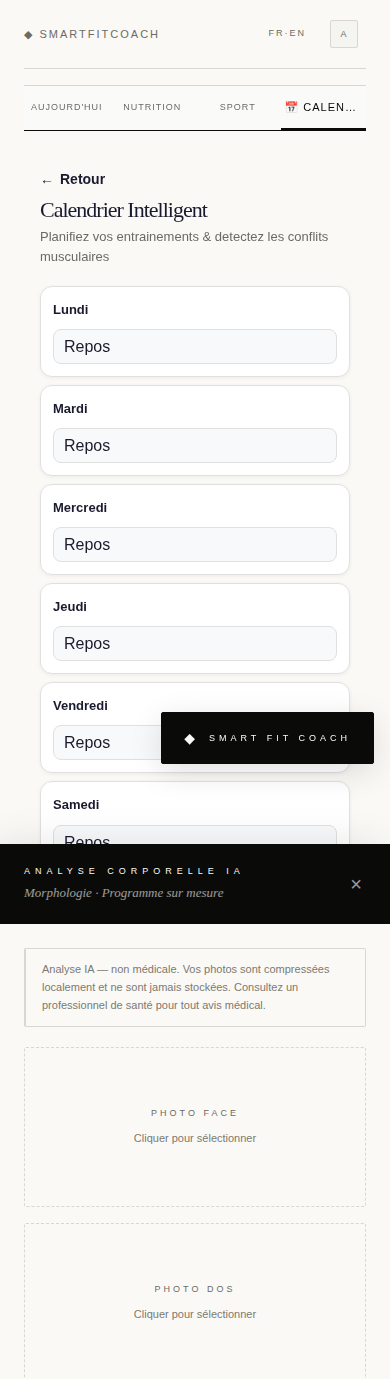
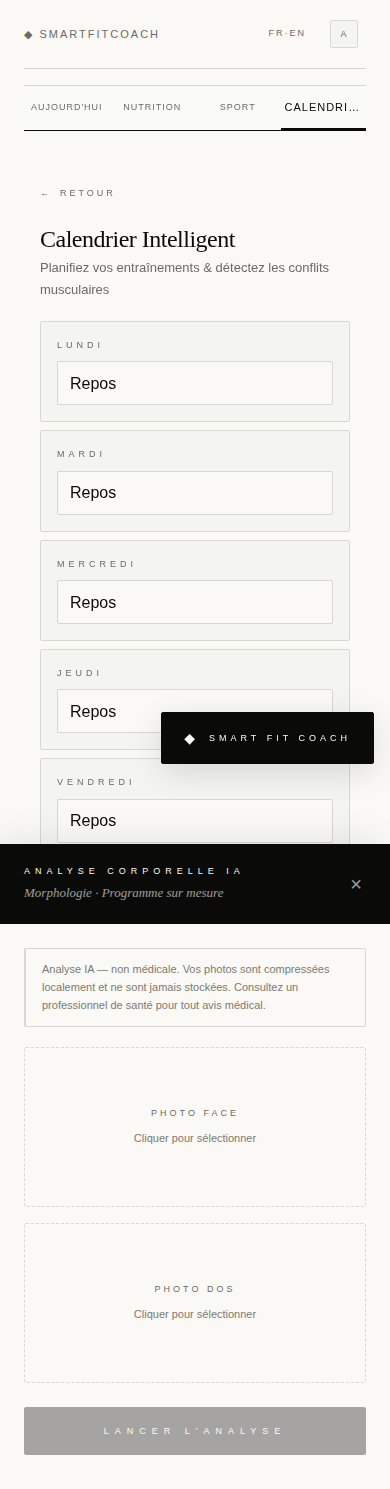
fix: design charter — 22 CSS violations corrected (DESIGN-AUDIT)
Score: 7.4/10 → 8.4/10 after corrections

PALETTE — Couleurs hors charte remplacées par variables CSS:
- premium-ui.css: #2C3E50 (bleu marine) → var(--black) dans set-table th
- premium-ui.css: #3498DB + rgba(52,152,219) (bleu Airbnb) → var(--black)
- premium-ui.css: gradients verts/violets/bleus sur badges PRE/POST/REST →
  fond sémantique charte (--greenbg/--orangebg/--border)
- premium-ui.css: badge violet #8E44AD (totalement hors charte) → gris neutre
- premium-ui.css: couleurs Airbnb #27AE60/#E74C3C → var(--green)/var(--red)
- premium-ui.css: timer transition bleu/violet #5B8DEF/#7C4DFF → var(--black)
- premium-ui.css: #ccc (print) → var(--border)
- premium-ui.css: day indicators rouge #C0392B / violet → vars charte

BORDER-RADIUS — Normalisation éditoriale (2px partout):
- .score-badge: 50% (cercle) → 2px
- .card-premium, .card-hero: 3px → 2px
- smart-calendar.js: border-radius 12px/24px → 2px

FONT-WEIGHT — Hiérarchie typographique:
- .rest-timer: 700 → 300 (légèreté luxury)
- .set-table th: 600 → 400
- Timer count: 700 → 300

EMOJIS — Suppression des emojis UI (texte pur éditorial):
- app-main.js: "📅 Calendrier" → "Calendrier"
- app-nutrition.js: "💡 " tips → texte seul
- app-sport.js: "💡 " + "💪 " → texte seul

SMART-CALENDAR — Refonte complète charte:
- Suppression gradient fond #1a1a2e/#16213e/#0f3460 → var(--black)
- Cards: background #fff → var(--ivory), border-radius 12px → 2px
- Bouton save: #2ECC71 (vert vif) → btn-primary noir/ivoire
[…]

diff --git a/app/app-sport.js b/app/app-sport.js
@@ -5318,7 +5318,7 @@ function renderMusculationProgram(p) {
     rpeRow.appendChild(h('div', {style: 'font-family:"Helvetica Neue",Arial,sans-serif;font-size:11px;color:var(--grey,#6B6B65);line-height:1.5'}, row[2]));
     rpeBody.appendChild(rpeRow);
    });
-   rpeBody.appendChild(h('div', {style: 'font-family:Georgia,serif;font-size:11px;font-style:italic;color:var(--grey);margin-top:8px;border-top:1px solid var(--border);padding-top:8px'}, '💡 En tant que débutant, visez RPE 7-8. Arrêtez si ça fait mal (≠ brûlure musculaire normale).'));
+   rpeBody.appendChild(h('div', {style: 'font-family:Georgia,serif;font-size:11px;font-style:italic;color:var(--grey);margin-top:8px;border-top:1px solid var(--border);padding-top:8px'}, 'En tant que débutant, visez RPE 7-8. Arrêtez si ça fait mal (≠ brûlure musculaire normale).'));
    rpeWrap.appendChild(rpeBody);
   }
   p.appendChild(rpeWrap);
@@ -5807,11 +5807,11 @@ function renderMusculationProgram(p) {
   briefCard.appendChild(h('div', {style: 'font-family:"Helvetica Neue",Arial,sans-serif;font-size:9px;letter-spacing:4px;text-transform:uppercase;color:#1A4A1A;margin-bottom:6px'}, 'SÉANCE DU JOUR'));
   briefCard.appendChild(h('div', {style: 'font-family:Georgia,serif;font-size:16px;font-style:italic;margin-bottom:8px;color:var(--black,#1A1A18)'}, day.focus));
   if (matchedBrief) {
-   briefCard.appendChild(h('div', {style: 'font-family:"Helvetica Neue",Arial,sans-serif;font-size:12px;color:var(--grey,#6B6B65);line-height:1.5;margin-bottom:8px'}, '💪 ' + matchedBrief.why));
-   briefCard.appendChild(h('div', {style: 'font-family:Georgia,serif;font-size:11px;font-style:italic;color:var(--grey,#6B6B65)'}, '💡 ' + matchedBrief.tip));
+   briefCard.appendChild(h('div', {style: 'font-family:"Helvetica Neue",Arial,sans-serif;font-size:11px;color:var(--grey,#6B6B65);line-height:1.6;margin-bottom:8px'}, matchedBrief.why));
+   briefCard.appendChild(h('div', {style: 'font-family:Georgia,serif;font-size:11px;font-style:italic;color:var(--grey,#6B6B65)'}, matchedBrief.tip));
   } else {
-   briefCard.appendChild(h('div', {style: 'font-family:"Helvetica Neue",Arial,sans-serif;font-size:12px;color:var(--grey,#6B6B65);line-height:1.5;margin-bottom:8px'}, '💪 Aujourd\'hui vous travaillez votre ' + day.focus));
-   briefCard.appendChild(h('div', {style: 'font-family:Georgia,serif;font-size:11px;font-style:italic;color:var(--grey,#6B6B65)'}, '💡 Chaque rep compte — concentrez-vous sur la technique, pas sur le poids'));
+   briefCard.appendChild(h('div', {style: 'font-family:"Helvetica Neue",Arial,sans-serif;font-size:11px;color:var(--grey,#6B6B65);line-height:1.6;margin-bottom:8px'}, 'Aujourd\'hui vous travaillez votre ' + day.focus));
+   briefCard.appendChild(h('div', {style: 'font-family:Georgia,serif;font-size:11px;font-style:italic;color:var(--grey,#6B6B65)'}, 'Chaque rep compte — concentrez-vous sur la technique, pas sur le poids'));
   }
   p.appendChild(briefCard);
  }

diff --git a/app/smart-calendar.js b/app/smart-calendar.js
@@ -196,11 +196,11 @@
         style: 'margin-bottom:12px;'
       }, btnBack),
       window.h('h1', {
-        style: 'font-family:Georgia,serif;font-size:22px;font-weight:normal;color:#1a1a2e;margin:0 0 6px 0;'
+        style: 'font-family:Georgia,serif;font-size:24px;font-weight:normal;color:var(--black,#0A0A09);margin:0 0 6px 0;letter-spacing:-0.5px;'
       }, 'Calendrier Intelligent'),
       window.h('p', {
-        style: 'font-family:"Helvetica Neue",Arial,sans-serif;font-size:13px;color:#6B6B65;margin:0;line-height:1.5;'
-      }, 'Planifiez vos entrainements & detectez les conflits musculaires')
+        style: 'font-family:"Helvetica Neue",Arial,sans-serif;font-size:13px;color:var(--grey,#6B6B65);margin:0;line-height:1.7;font-weight:300;'
+      }, 'Planifiez vos entraînements & détectez les conflits musculaires')
     ]);
 
     // ── Grille 7 jours ──

diff --git a/app/app-main.js b/app/app-main.js
@@ -1174,7 +1174,7 @@ function render() {
    nav.appendChild(h('button', {'class': 'main-nav-tab' + (S.view === 'sport' ? ' active' : ''), onclick: function(){ S.view = 'sport'; if(window.BLACKBOX)window.BLACKBOX.log('nav_sport'); render(); }}, window.t('nav.sport')));
  }
  if (S.appMode && S.appMode !== 'nutrition') {
-   nav.appendChild(h('button', {'class': 'main-nav-tab' + (S.view === 'calendar' ? ' active' : ''), style: 'font-size:11px', onclick: function(){ S.view = 'calendar'; if(window.BLACKBOX)window.BLACKBOX.log('nav_calendar'); render(); }}, '📅 Calendrier'));
+   nav.appendChild(h('button', {'class': 'main-nav-tab' + (S.view === 'calendar' ? ' active' : ''), style: 'font-size:11px', onclick: function(){ S.view = 'calendar'; if(window.BLACKBOX)window.BLACKBOX.log('nav_calendar'); render(); }}, 'Calendrier'));
  }
  wrap.appendChild(nav);
 

diff --git a/app/app-nutrition.js b/app/app-nutrition.js
@@ -5247,7 +5247,7 @@ function showSmoothieModal(sm) {
 
   // Tips
   if (sm.tips) {
-    var tipDiv = h('div', {style:'margin:12px 20px 0;background:rgba(26,74,26,0.06);border-left:3px solid var(--green,#1A4A1A);padding:10px 12px;border-radius:0 8px 8px 0;font-size:13px;color:var(--text,#0A0A09);line-height:1.5'}, '💡 ' + sm.tips);
+    var tipDiv = h('div', {style:'margin:12px 20px 0;background:var(--greenbg,rgba(26,74,26,0.06));border-left:3px solid var(--green,#1A4A1A);padding:10px 12px;border-radius:0 2px 2px 0;font-family:"Helvetica Neue",Arial,sans-serif;font-size:11px;color:var(--grey,#6B6B65);line-height:1.6'}, sm.tips);
     body.appendChild(tipDiv);
   }
   body.appendChild(h('div', {style:'height:12px'}));

diff --git a/app/premium-ui.css b/app/premium-ui.css
@@ -2126,7 +2126,7 @@ body.dark-mode .auth-container {
   opacity: 0.6;
 }
 .set-row-validated {
-  background: rgba(39, 174, 96, 0.08) !important;
+  background: var(--greenbg, rgba(26,74,26,.06)) !important;
 }
 
 /* -------------------------------------------------------
